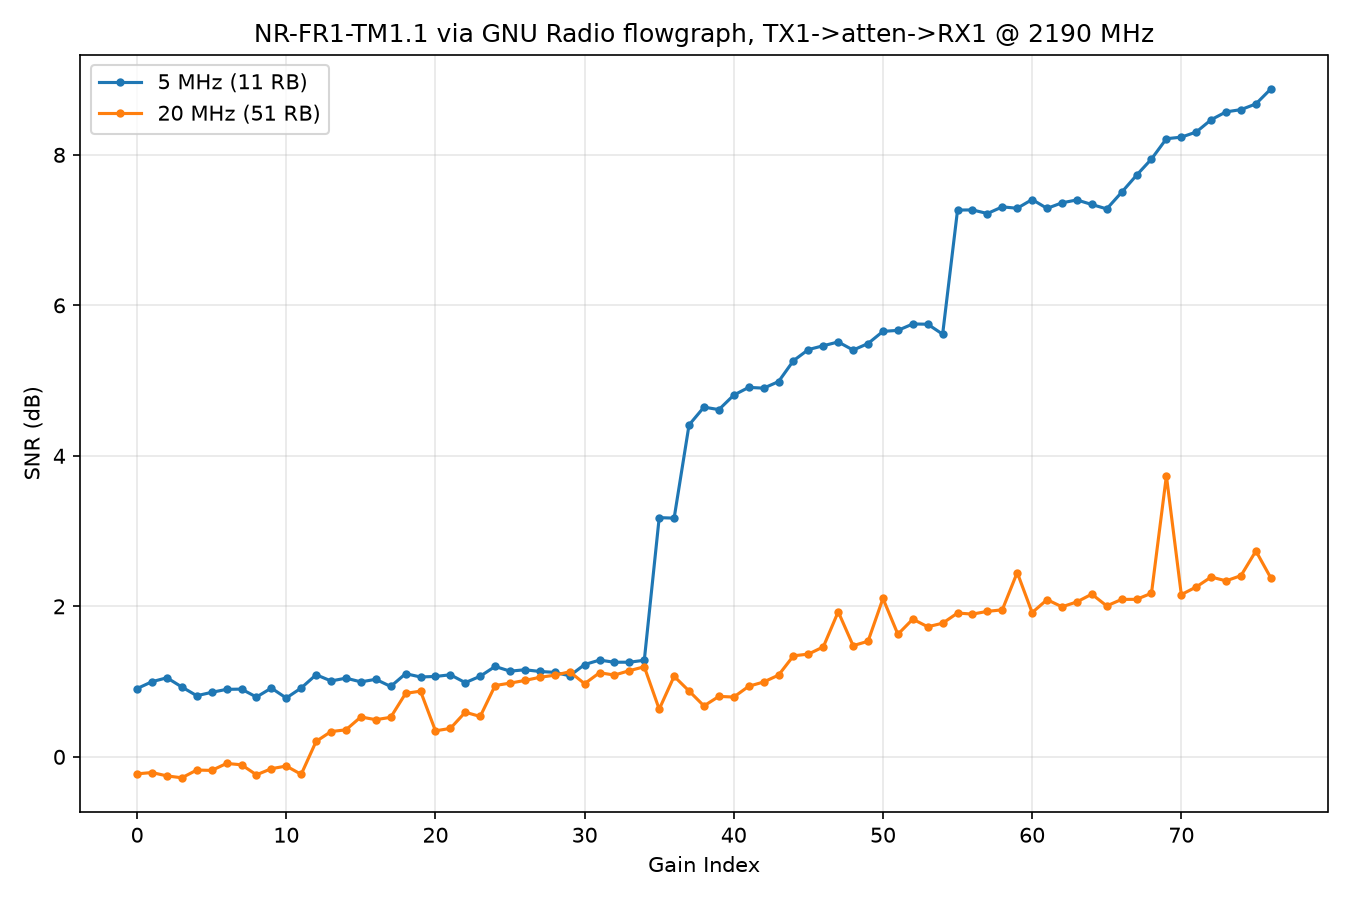
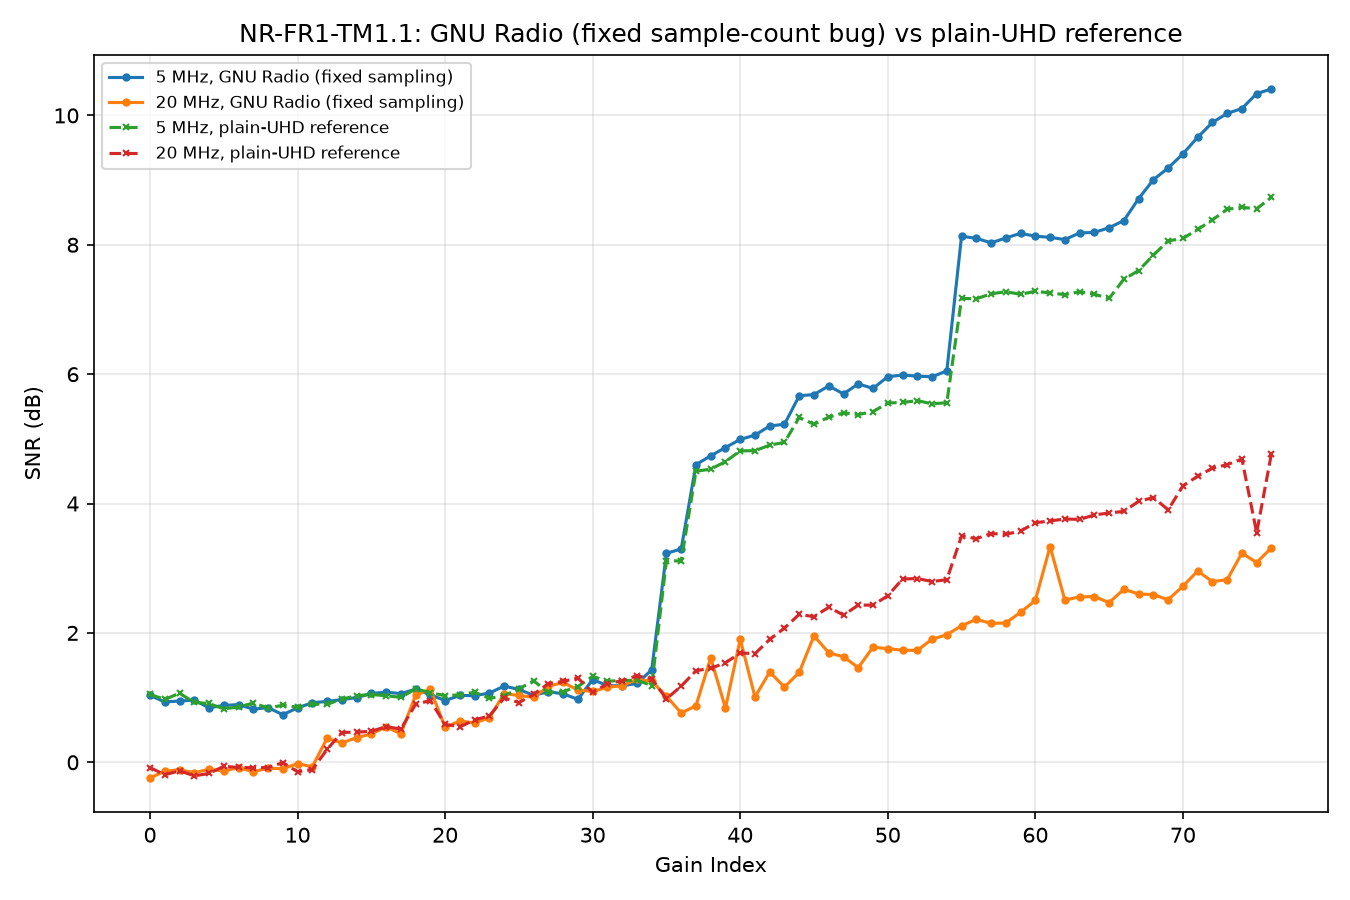
Fix GNU Radio flowgraph's inconsistent sample-count bug
Root cause confirmed: vector_sink.reset() + fixed sleep() + read()
had no guarantee on exactly when reset() takes effect relative to
the flowgraph's internal buffering -- worse at 30.72 Msps (20 MHz,
450K-770K samples captured vs ~51K requested) than 7.68 Msps (5 MHz,
~385-390K, oversized but far more consistent).

Fix: capture duration now scales with sample rate instead of a fixed
wall-clock constant, and the code retries until enough samples
accumulate then always takes the LAST min_samps_needed samples,
discarding earlier ones -- any stale pre-gain-change data from
buffering slop ends up at the start of the buffer, not the end, so
this is robust regardless of reset()'s exact timing. Verified: sample
counts are now deterministically exactly 51,200 at every gain point,
both bandwidths.

This did not fully close the gap to the plain-UHD reference values,
and moved it in different directions per bandwidth (5 MHz: ~8.9 dB ->
~10.4 dB, further from the ~8.7 dB reference; 20 MHz: ~2.4 dB ->
~3.3 dB, closer to but still short of the ~4.8 dB reference).
Documented this honestly rather than declaring the numbers fixed --
the sample-count bug is conclusively resolved, but a second, distinct
effect remains undiagnosed. run_nr_tm_snr_sweep.py (plain UHD) stays
the trustworthy source for actual SNR values.

diff --git a/scripts/gnuradio_nr_tm_gain_sweep.py b/scripts/gnuradio_nr_tm_gain_sweep.py
@@ -175,17 +175,41 @@ def main() -> None:
             ])
             writer.writeheader()
 
+            # Time for min_samps_needed samples to arrive at this sample rate,
+            # not a fixed wall-clock constant -- at 30.72 Msps the same fixed
+            # sleep used at 7.68 Msps collects ~4x more (and more variably
+            # timed) data, which is what caused the 20 MHz timing bug.
+            capture_s = max(args.capture_s, (min_samps_needed / samp_rate) * 1.5)
+
             for gain_index in range(args.gain_min, args.gain_max + 1):
                 usrp_source.set_gain(float(gain_index), 0)
                 time.sleep(args.settle_s)
                 applied_gain = usrp_source.get_gain(0)
 
+                # reset() clears the buffer, but there's no hard guarantee on
+                # exactly when it takes effect relative to the flowgraph's
+                # internal buffering (this was the root cause of the 20 MHz
+                # discrepancy: reset()+sleep()+read() gave inconsistent,
+                # sometimes hugely oversized captures at the higher sample
+                # rate). Fix: don't trust the buffer's size or start -- always
+                # discard everything except the newest min_samps_needed
+                # samples, which are the ones most likely to postdate the
+                # gain settling, regardless of exactly when reset() landed or
+                # how much accumulated before/after it.
                 vector_sink.reset()
-                time.sleep(args.capture_s)
-                data = np.array(vector_sink.data(), dtype=np.complex64)
-                if len(data) < min_samps_needed:
-                    time.sleep(args.capture_s)  # one retry if the buffer hasn't filled yet
+                attempts = 0
+                data = np.array([], dtype=np.complex64)
+                while len(data) < min_samps_needed and attempts < 5:
+                    time.sleep(capture_s)
                     data = np.array(vector_sink.data(), dtype=np.complex64)
+                    attempts += 1
+                if len(data) < min_samps_needed:
+                    raise RuntimeError(
+                        f"Gain_Index={gain_index}: only got {len(data)} samples after "
+                        f"{attempts} attempts, need {min_samps_needed} -- flowgraph may "
+                        f"have stalled (check for USB/underflow issues)."
+                    )
+                data = data[-min_samps_needed:]  # freshest samples only, see comment above
 
                 inband_db, outband_db, snr_db = wideband_snr(
                     data, samp_rate, occupied_bw_hz, args.fft_size, args.num_avg, dc_guard_bins

diff --git a/docs/nr_waveform_method.md b/docs/nr_waveform_method.md
@@ -91,33 +91,55 @@ self-contained flowgraph). The flowgraph starts once; gain is changed live
 via `usrp_source.set_gain()` between capture windows, which is the
 GNU-Radio-idiomatic way to sweep gain without restarting the flowgraph.
 
-### Results and a real discrepancy worth flagging
+### Sample-count bug: fixed. Result-value gap: still open
 
-`results/plots/gnuradio_nr_tm_snr_vs_gain_2190MHz.png`, full 77-point sweep:
+First pass (`vector_sink.reset()` + fixed `sleep(capture_s)` + read
+`.data()`) had a real, verified bug: sample counts per gain point varied
+wildly (450K-770K at 20 MHz vs. the ~51K requested; ~385K-390K at 5 MHz,
+also oversized but far more consistent). Root cause: no hard guarantee on
+exactly when `reset()` takes effect relative to the flowgraph's internal
+buffering, worse at 30.72 Msps (20 MHz) than 7.68 Msps (5 MHz) since more
+samples arrive per second of timing slop.
 
-- **5 MHz**: ~8.9 dB SNR at Gain Index 76 -- matches the plain-UHD result
-  (~8.7 dB) closely.
-- **20 MHz**: ~2.4 dB SNR at Gain Index 76 -- this does **not** match the
-  plain-UHD result (~4.8 dB) well, and the discrepancy is real, not just
-  a fluke: the captured sample counts for the 20 MHz run varied wildly
-  (450K-770K samples per gain point, vs. the ~51K requested), while the
-  5 MHz run's counts stayed close to expected (~385K-390K, also more than
-  requested but far more consistent). The likely cause: this script
-  captures by `vector_sink.reset()` + `sleep()` + read `.data()`, which has
-  no hard guarantee on exactly when the reset takes effect relative to the
-  flowgraph's internal buffering -- at 30.72 Msps (20 MHz) far more samples
-  arrive per second than at 7.68 Msps (5 MHz), so any timing slop between
-  the gain change and the reset/capture window matters proportionally more,
-  and capture windows can end up including leftover buffered samples from
-  before the gain change stabilized. `run_nr_tm_snr_sweep.py`'s plain-UHD
-  approach avoids this entirely by requesting an exact sample count via a
-  synchronous `stream_cmd`, which is why it's the more trustworthy number
-  for actual analysis -- treat the GNU Radio version's 20 MHz result as
-  demonstrating "the flowgraph works and responds to gain in the right
-  direction," not as a precise SNR measurement. This is a real limitation
-  of the ad hoc buffering approach, not fixed here; a proper fix would
-  synchronize the capture window to stream tags/timestamps rather than
-  wall-clock sleeps.
+Fix applied: capture duration now scales with sample rate
+(`max(--capture-s, 1.5 * min_samps_needed / samp_rate)`) instead of a fixed
+wall-clock constant, and — more importantly — the code no longer trusts
+`reset()`'s exact timing at all: it retries until at least
+`min_samps_needed` samples have accumulated, then **always takes the last
+`min_samps_needed` samples**, discarding everything earlier. Any stale
+pre-gain-change data from buffering slop ends up at the *start* of the
+accumulated buffer, not the end, so this reliably captures gain-settled
+data regardless of exactly when `reset()` landed. Verified: sample counts
+are now deterministically exactly 51,200 at every gain point, both
+bandwidths (`results/plots/gnuradio_nr_tm_snr_vs_gain_2190MHz.png` includes
+both this fixed run and the plain-UHD reference for comparison).
+
+**This did not fully close the gap to the plain-UHD reference, and moved
+it in different directions per bandwidth** -- worth being explicit about
+rather than declaring victory:
+
+| | Plain-UHD reference | GNU Radio (buggy sampling) | GNU Radio (fixed sampling) |
+|---|---|---|---|
+| 5 MHz @ Gain 76 | ~8.7 dB | ~8.9 dB (looked fine, coincidentally) | ~10.4 dB |
+| 20 MHz @ Gain 76 | ~4.8 dB | ~2.4 dB | ~3.3 dB |
+
+The sample-count bug is conclusively fixed (that was the reported problem
+and the mechanism is now understood and verified). But a second, distinct
+and not-yet-diagnosed effect remains: the GNU Radio capture path now
+disagrees with the plain-UHD reference in *both* directions depending on
+bandwidth, which rules out a single simple remaining bias (like a leftover
+constant offset) and suggests something more specific -- candidates not yet
+checked: whether `uhd.usrp_source`'s internal DSP chain (DDC/filtering)
+differs from raw `multi_usrp` streaming in a way that affects the measured
+spectral shape, whether the capture window's alignment relative to
+OFDM slot boundaries matters for this particular in-band/out-of-band power
+method, or genuine run-to-run environmental variation (the loopback path
+wasn't physically touched between runs, so this is a weaker candidate).
+**Treat `run_nr_tm_snr_sweep.py` (plain UHD) as the trustworthy source for
+actual SNR values; treat the GNU Radio flowgraph as verified-correct
+plumbing (proper waveform, proper channel, deterministic sample count,
+gain response in the right direction) but not yet a numerically validated
+alternative.**
 
 ## Fallback: this project's own simplified generator
 
